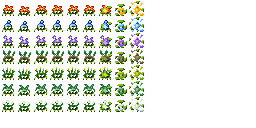
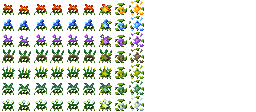
* Spiders nest update by Pavel Provorotov * Spider exploding & servant update from Pavel Provorotov

Changed region(s): [[0.0, 0.0, 0.5625, 0.9911]]

diff --git a/PixelDungeon/src/main/java/com/watabou/pixeldungeon/Assets.java b/PixelDungeon/src/main/java/com/watabou/pixeldungeon/Assets.java
@@ -100,7 +100,7 @@ public class Assets {
 	public static final String ITEMS = "items.png";
 	public static final String PLANTS = "plants.png";
 
-	public static final String TILES_SPIDER_NEST = "tiles_spider_nest.png";
+	public static final String TILES_SPIDER_NEST_X = "tiles_spider_nest_x.png";
 	public static final String TILES_SEWERS = "tiles0.png";
 	public static final String TILES_SEWERS_X = "tiles0_x.png";
 	public static final String TILES_PRISON = "tiles1.png";

diff --git a/PixelDungeon/src/main/java/com/nyrds/pixeldungeon/spiders/levels/SpiderLevel.java b/PixelDungeon/src/main/java/com/nyrds/pixeldungeon/spiders/levels/SpiderLevel.java
@@ -25,8 +25,8 @@ public class SpiderLevel extends CommonLevel {
 	}
 
 	@Override
-	public String tilesTex() {
-		return Assets.TILES_SPIDER_NEST;
+	public String tilesTexEx() {
+		return Assets.TILES_SPIDER_NEST_X;
 	}
 
 	@Override
